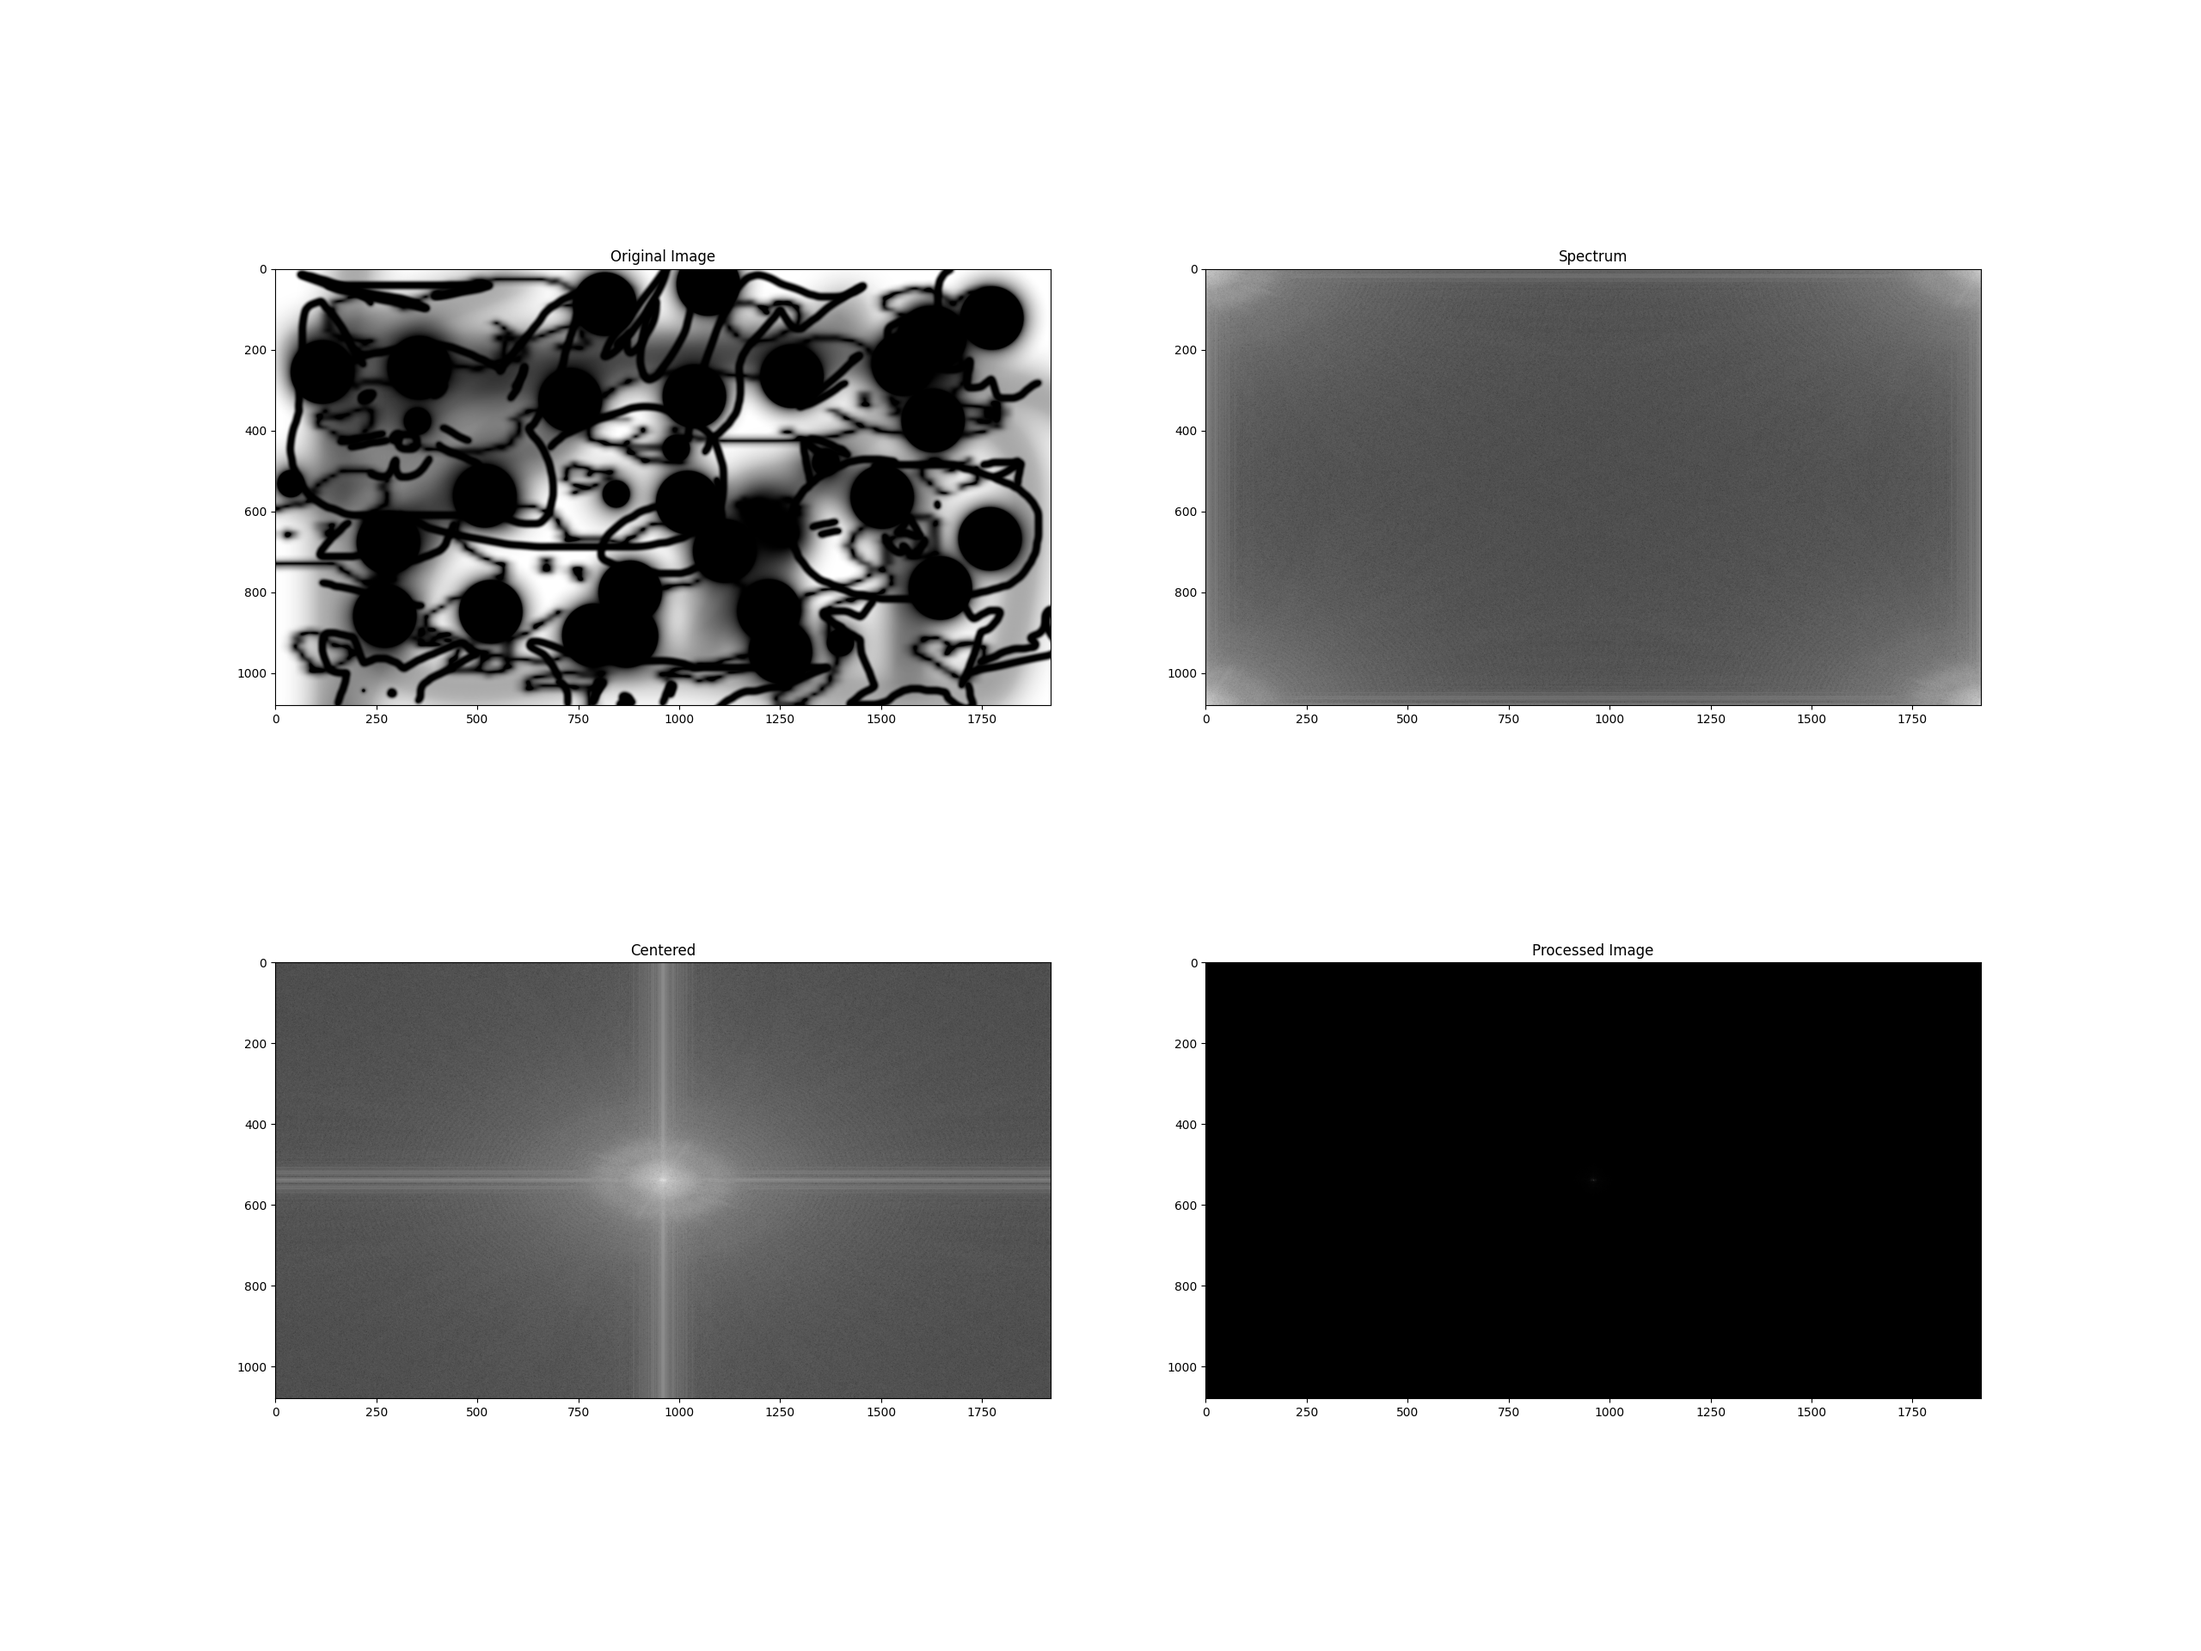
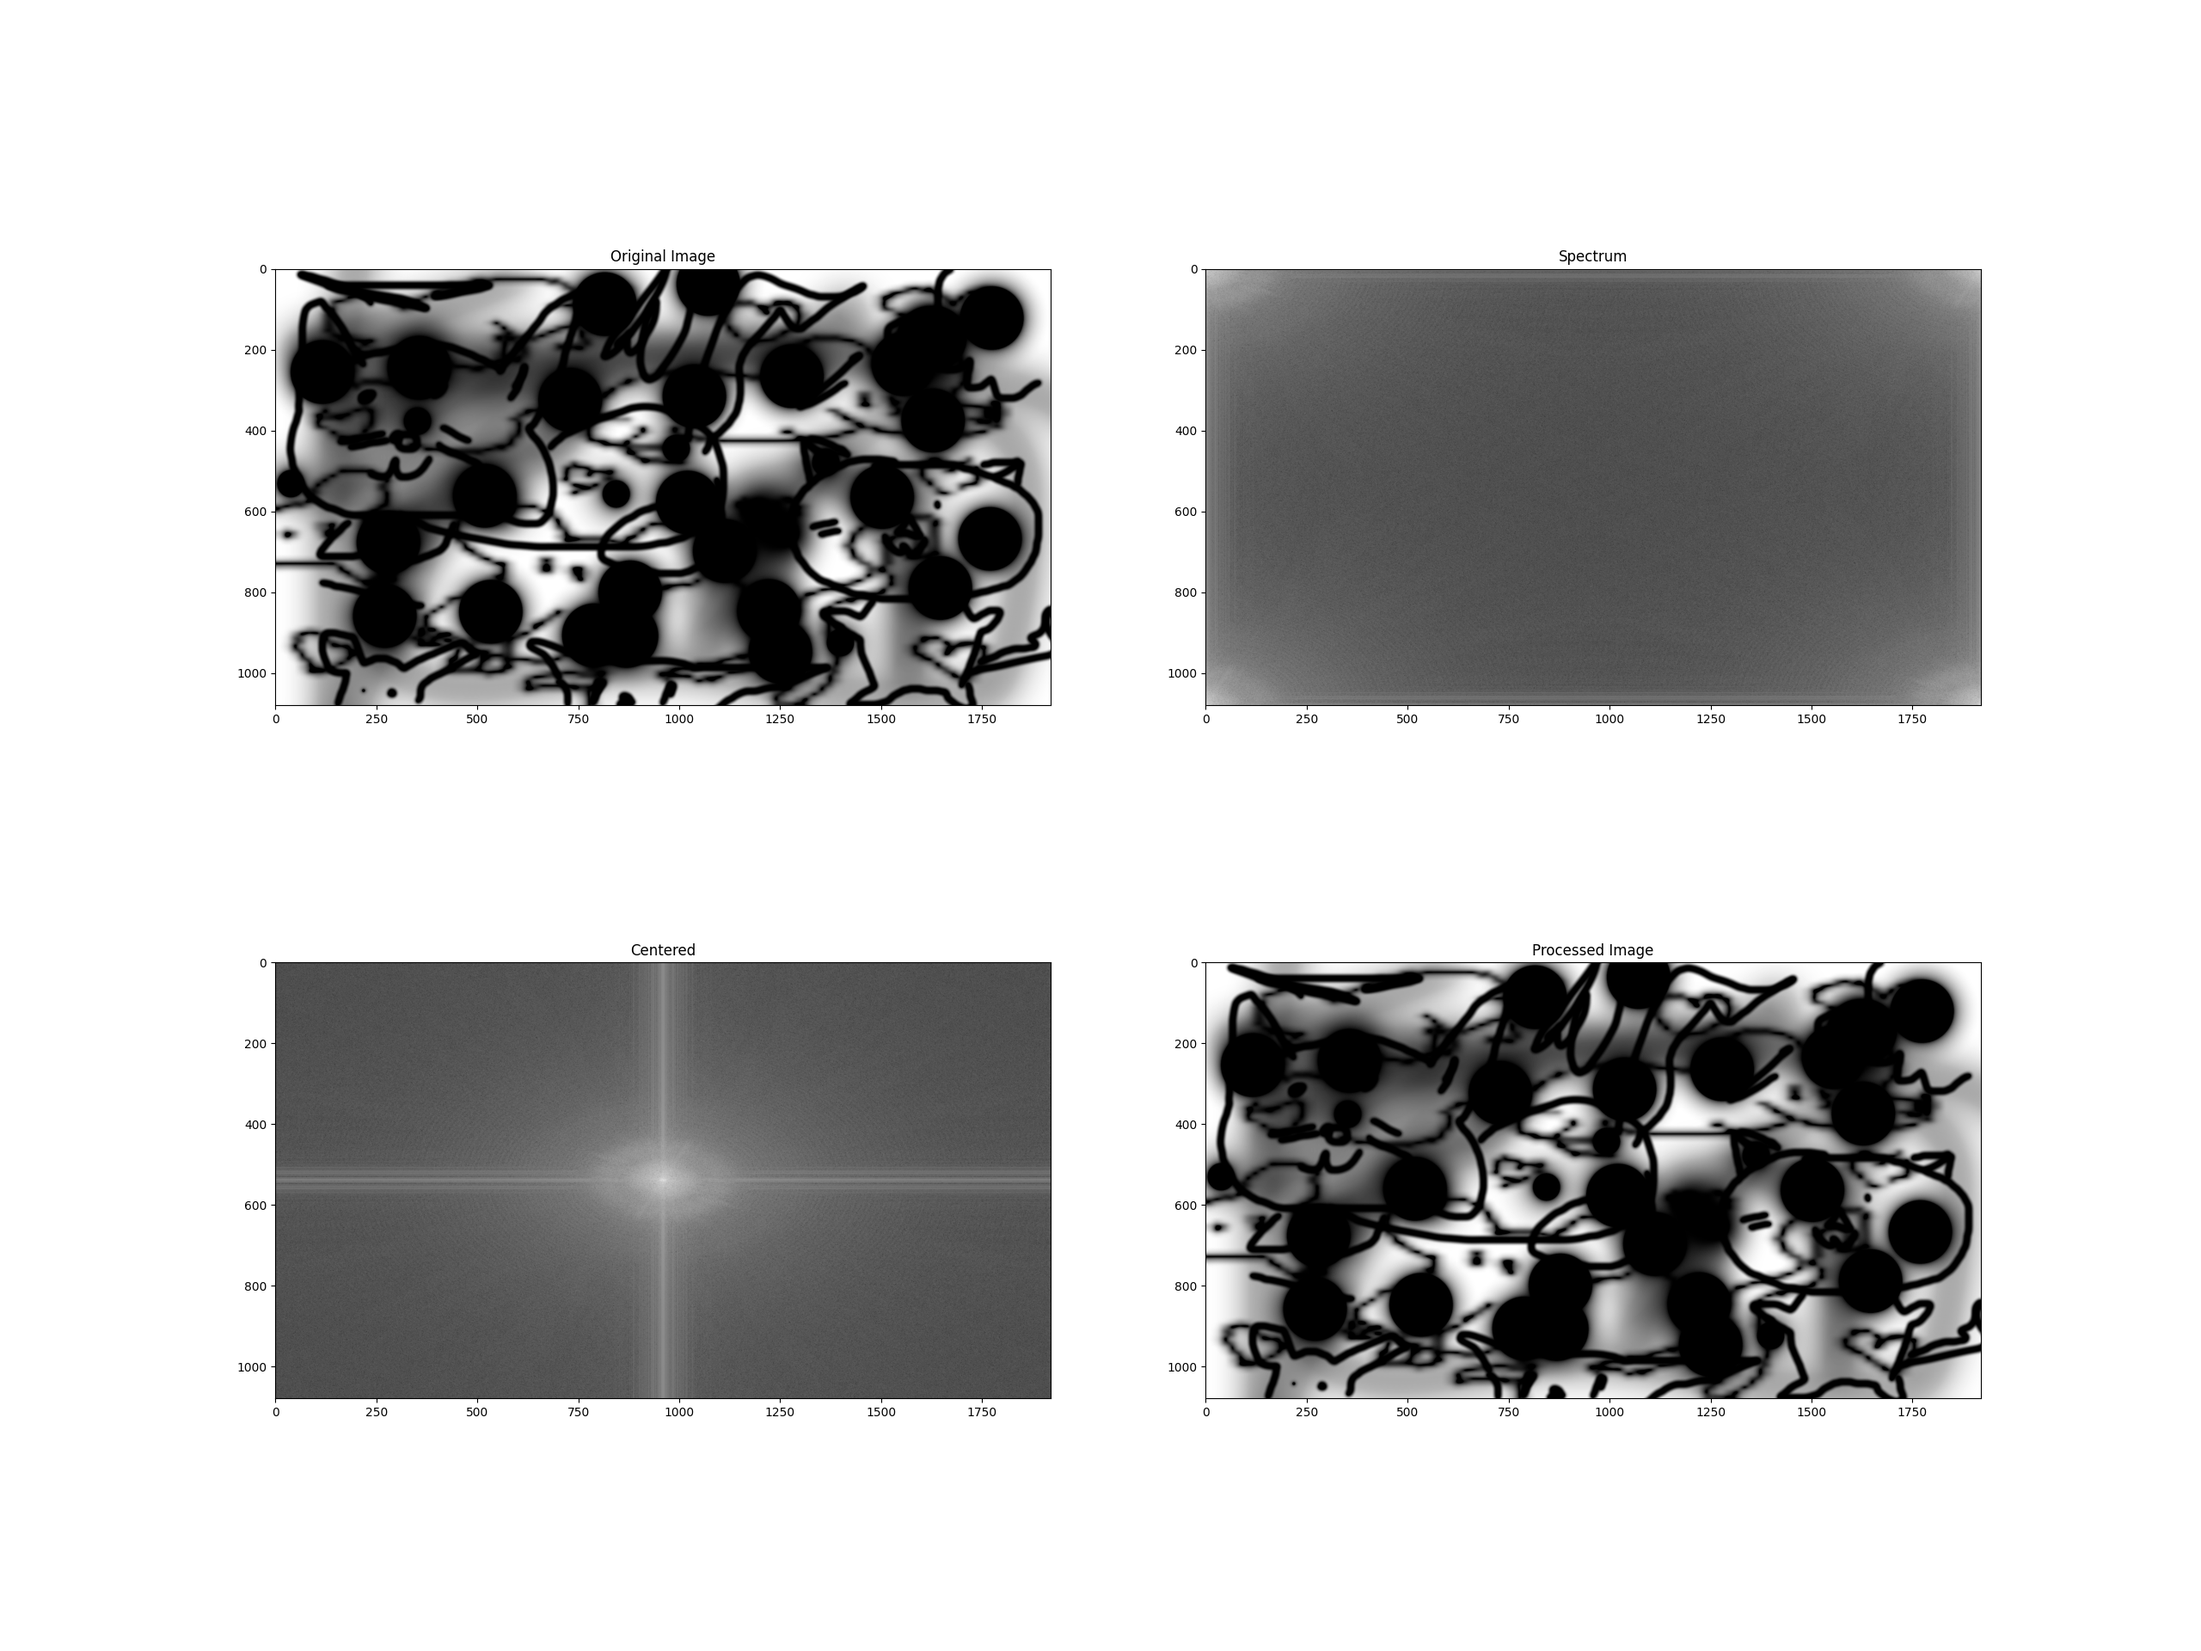
Accidentaly turned on linting, code still works

Changed region(s): [[0.5312, 0.5625, 0.9062, 0.8438]]

diff --git a/fourrier.py b/fourrier.py
@@ -15,6 +15,6 @@ def showFourrierSpectrum(filename):
     plt.subplot(221), plt.imshow(img_c1, "gray"), plt.title("Original Image")
     plt.subplot(222), plt.imshow(np.log(1+np.abs(img_c2)), "gray"), plt.title("Spectrum")
     plt.subplot(223), plt.imshow(np.log(1+np.abs(img_c3)), "gray"), plt.title("Centered")
-    plt.subplot(224), plt.imshow(np.abs(img_c3), "gray"), plt.title("Processed Image")
+    plt.subplot(224), plt.imshow(np.abs(img_c4), "gray"), plt.title("Processed Image")
 
     plt.savefig("figures/mygraph.png")

diff --git a/main.py b/main.py
@@ -1,5 +1,3 @@
-import binascii
-
 import chunk as PNGChunk
 import chunksDecoder as CDecoder
 
